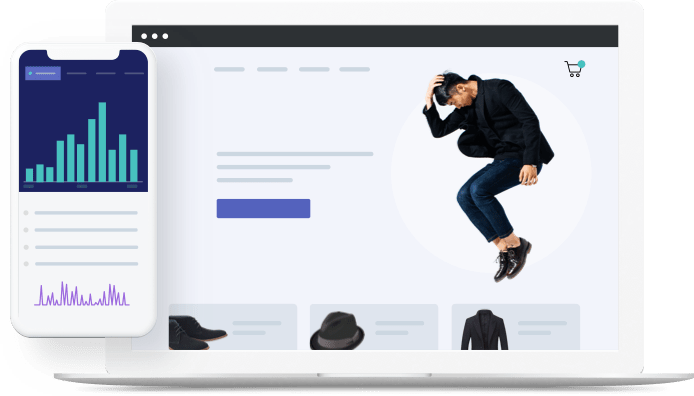
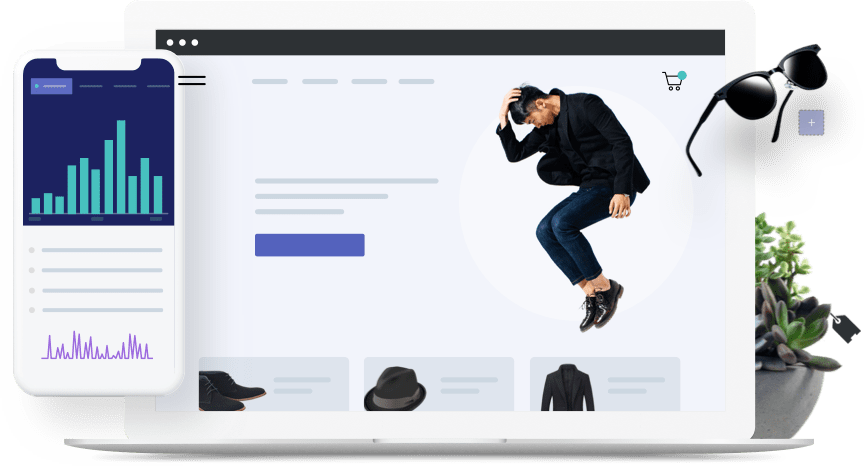
-Reponsive Features

diff --git a/src/landing-pages/shopify/index.js b/src/landing-pages/shopify/index.js
@@ -5,15 +5,12 @@ import { ReactComponent as Logoshop } from "./images/logoshopify.svg";
 import { ReactComponent as Icon2 } from "./images/svgexport-2.svg";
 import { ReactComponent as Icon3 } from "./images/svgexport-3.svg";
 import { ReactComponent as Icon4 } from "./images/svgexport-4.svg";
-// import icon2 from "./images/svgexport-2.svg";
-// import icon3 from "./images/svgexport-3.svg";
-// import icon4 from "./images/svgexport-4.svg";
 
 export function renderHeader() {
   return (
     <div className="Header">
       <a href="/shopify">
-        <Logoshop className="Logo" fill="#fffffff" />
+        <Logoshop className="Logo" />
       </a>
       <h1>Sell online with Shopify</h1>
       <h2>Trusted by over 600,000 businesses worldwide</h2>
@@ -30,7 +27,7 @@ export function renderHeader() {
           Try Shopify free for 14 days. No risk, and no credit card required
         </h6>
       </div>
-      <img src={imglaptop} />
+      <img src={imglaptop} alt="imglaptop" />
     </div>
   );
 }
@@ -68,16 +65,7 @@ export function renderFeatures() {
   );
 }
 export function renderLogos() {
-  return (
-    <div className="Logos">
-      <a className="logo1" href="#" />
-      <a className="logo2" href="#" />
-      <a className="logo3" href="#" />
-      <a className="logo4" href="#" />
-      <a className="logo5" href="#" />
-      <a className="logo6" href="#" />
-    </div>
-  );
+  return <div className="Logos" />;
 }
 export function renderQuotes() {
   return (
@@ -94,8 +82,8 @@ export function renderQuotes() {
 export function renderFooter() {
   return (
     <div className="Footer">
-      <a href="#">Terms of Service</a>
-      <a href="#">Privacy Policy</a>
+      <a href="http://localhost:3000/shopify">Terms of Service</a>
+      <a href="http://localhost:3000/shopify">Privacy Policy</a>
     </div>
   );
 }

diff --git a/src/landing-pages/shopify/index.css b/src/landing-pages/shopify/index.css
@@ -8,14 +8,10 @@
   background-image: url("./images/imgHeader.jpg");
   background-size: 100% 100%;
 }
-
 .Logo {
   width: 111px;
   height: 32px;
   margin-top: 30px;
-}
-.path {
-  fill: #ffffff;
 }
 .icon {
   width: 40px;
@@ -23,15 +19,17 @@
 }
 .Features {
   display: flex;
-  justify-content: center;
+  justify-content: space-evenly;
   font-size: 1em;
   line-height: 1.5;
   color: #637381;
   flex-wrap: wrap;
+  max-width: 990px;
+  margin: 0 auto;
 }
 .boxfeatures {
-  padding: 20px;
-  width: 220px;
+  flex: 1;
+  max-width: 250px;
 }
 .Logos {
   margin: auto;
@@ -57,14 +55,15 @@ a {
 .Email {
   display: flex;
   align-items: center;
+  flex-wrap: wrap;
   justify-content: center;
 }
 input.enteremail {
   display: inline-block;
   border-radius: 4px;
   border: none;
-  font-size: 10px;
-  padding: 13px;
+  font-size: 16px;
+  padding: 10px;
 
   text-align: start;
 }
@@ -74,7 +73,7 @@ button {
   padding: 10px;
   text-align: center;
   display: inline-block;
-  font-size: 16px;
+  font-size: 17px;
   margin-left: 4px;
   border-radius: 4px;
 }
@@ -92,4 +91,33 @@ button.start2:hover {
 }
 h3 {
   color: #212b35;
+  margin-top: 5px;
+}
+img {
+  width: 60%;
+}
+@media (max-width: 760px) {
+  .Features {
+    display: block;
+    text-align: center;
+  }
+  .boxfeatures {
+    max-width: 80%;
+    margin: 45px auto;
+  }
+  h3 {
+    margin: 0px;
+  }
+  p {
+    margin-top: 0px;
+  }
+}
+@media (max-width: 340px) {
+  .Email {
+    display: block;
+    /*flex-direction: colum*/
+  }
+  input.enteremail {
+    max-width: 100%;
+  }
 }

diff --git a/src/App.js b/src/App.js
@@ -6,7 +6,7 @@ class App extends Component {
   render() {
     return (
       <Router>
-        <Route path="/shopify" component={Shopify} />
+        <Route path="/" component={Shopify} />
       </Router>
     );
   }
